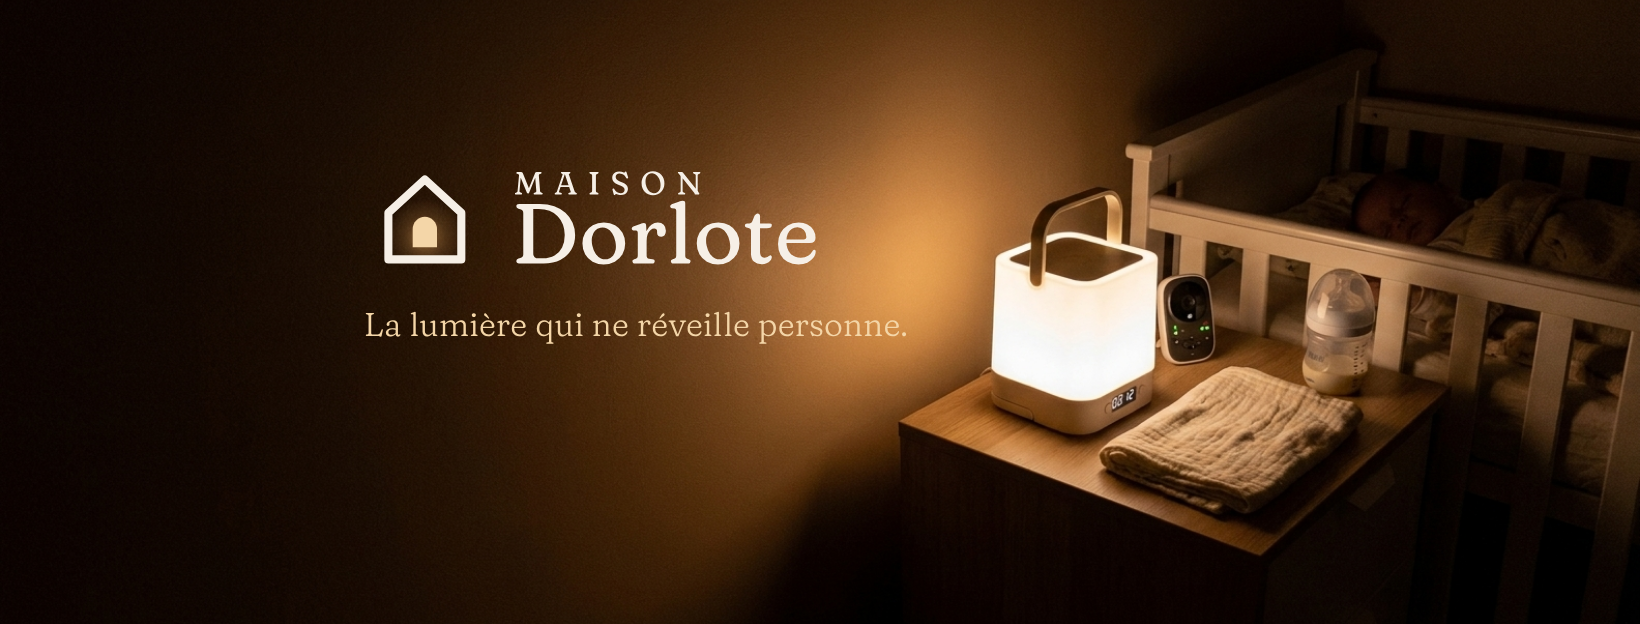
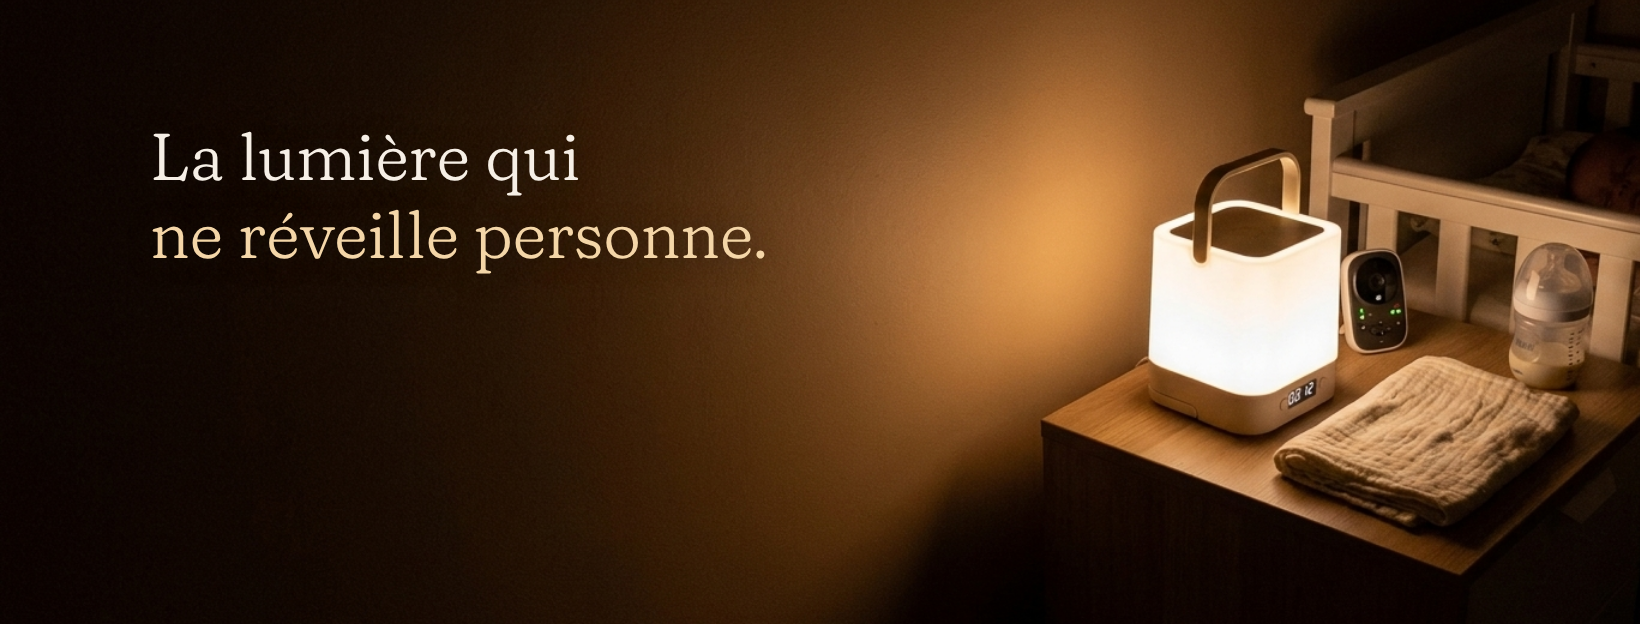
Couverture Facebook v2 : slogan seul, lampe dégagée de la photo de profil
Claude-Session: https://claude.ai/code/session_01Fj2qd2tYkwriq7vPtNENKj

diff --git a/docs/reseaux/couverture-facebook.html b/docs/reseaux/couverture-facebook.html
@@ -1,9 +1,7 @@
 <!doctype html><meta charset=utf-8><style>
 @font-face{font-family:F;src:url(file:///home/user/projet-shopify-/tools/fonts/fraunces-300.ttf)}
 html,body{margin:0}#b{position:relative;width:1640px;height:624px;overflow:hidden;background:#1E1A17}
-#b img.bg{position:absolute;left:0;top:50%;width:1640px;transform:translateY(-50%)}
-#b .txt{position:absolute;left:360px;top:150px;width:640px}
-#b .txt svg{width:470px;height:auto;display:block}
-#b p{margin:24px 0 0 4px;white-space:nowrap;font:300 33px/1.25 F;color:#F4D6A8;letter-spacing:.2px}
-#guide{display:none}
-</style><div id=b><img class=bg src="/tmp/claude-0/-home-user-projet-shopify-/13129036-406b-5b63-8be9-562902ebd529/scratchpad/fb/couv-a.png"><div class=txt><svg xmlns="http://www.w3.org/2000/svg" viewBox="0 0 232 64"><defs><clipPath id="ca"><path d="M16 54 V32 L32 17.4 L48 32 V54 Z"/></clipPath><radialGradient id="ra" cx="32" cy="43" r="19" gradientUnits="userSpaceOnUse"><stop offset="0" stop-color="#E8A55B" stop-opacity=".55"/><stop offset=".55" stop-color="#E8A55B" stop-opacity=".18"/><stop offset="1" stop-color="#E8A55B" stop-opacity="0"/></radialGradient></defs><rect x="0" y="0" width="64" height="64" fill="url(#ra)" clip-path="url(#ca)"/><path d="M14 54 V31 L32 14.5 L50 31 V54 Z" fill="none" stroke="#F6EFE6" stroke-width="4" stroke-linejoin="round"/><path d="M26 48 V39 a6 6 0 0 1 12 0 V48 Z" fill="#F4D6A8"/><path d="M26 48 V39 a6 6 0 0 1 12 0 V48 Z" fill="#E8A55B" transform="translate(32 48) scale(.78) translate(-32 -48)" opacity=".0"/><path transform="translate(76 22) scale(0.16)" fill="#F6EFE6" d="M48.35 -14.200000000000001 43.35 -13.25 64.65 -65.35000000000001Q65.7 -67.95 66.975 -68.975Q68.25 -70.0 70.60000000000001 -70.0H81.55000000000001Q83.25 -70.0 84.075 -69.275Q84.9 -68.55 84.9 -67.25Q84.9 -66.05 84.22500000000001 -65.35Q83.55000000000001 -64.65 82.45 -64.2L80.25 -63.6Q78.25 -63.0 77.45 -61.825Q76.65 -60.650000000000006 76.9 -57.550000000000004L80.55000000000001 -10.850000000000001Q80.75 -8.75 81.55000000000001 -7.825Q82.35000000000001 -6.9 84.0 -6.4L86.2 -5.800000000000001Q87.30000000000001 -5.4 87.9 -4.7Q88.5 -4.0 88.5 -2.9000000000000004Q88.5 -1.55 87.7 -0.775Q86.9 0.0 85.2 0.0H64.10000000000001Q62.400000000000006 0.0 61.575 -0.7250000000000001Q60.75 -1.4500000000000002 60.75 -2.75Q60.75 -3.85 61.375 -4.575Q62.0 -5.300000000000001 63.2 -5.800000000000001L65.4 -6.4Q67.15 -6.95 68.1 -7.9Q69.05 -8.85 68.9 -10.850000000000001L64.85000000000001 -60.35L69.0 -60.45L47.35 -7.45Q46.400000000000006 -5.0 45.550000000000004 -4.225Q44.7 -3.45 43.400000000000006 -3.45Q42.45 -3.45 41.7 -3.75Q40.95 -4.05 40.300000000000004 -4.95Q39.650000000000006 -5.8500000000000005 38.95 -7.65L17.35 -60.300000000000004L21.6 -61.25L17.1 -11.100000000000001Q16.900000000000002 -8.85 17.775000000000002 -7.85Q18.650000000000002 -6.8500000000000005 20.6 -6.25L22.8 -5.5Q23.700000000000003 -5.15 24.25 -4.525Q24.8 -3.9000000000000004 24.8 -2.85Q24.8 -1.5 24.0 -0.75Q23.200000000000003 0.0 21.5 0.0H6.300000000000001Q4.65 0.0 3.825 -0.7250000000000001Q3.0 -1.4500000000000002 3.0 -2.75Q3.0 -4.05 3.7 -4.725Q4.4 -5.4 5.65 -5.9L7.65 -6.4Q9.35 -6.9 10.15 -7.925000000000001Q10.950000000000001 -8.950000000000001 11.15 -11.100000000000001L15.5 -59.150000000000006Q15.65 -61.0 14.75 -62.05Q13.850000000000001 -63.1 12.0 -63.6L9.8 -64.2Q8.65 -64.65 8.0 -65.35Q7.3500000000000005 -66.05 7.3500000000000005 -67.25Q7.3500000000000005 -70.0 10.65 -70.0H21.5Q23.900000000000002 -70.0 25.175000000000004 -68.9Q26.450000000000003 -67.8 27.400000000000002 -65.4Z M141.5 -29.0H172.4L172.75 -23.05H140.95000000000002ZM147.60000000000002 -2.75Q147.60000000000002 -1.4500000000000002 146.77500000000003 -0.7250000000000001Q145.95000000000002 0.0 144.25 0.0H129.05Q127.35000000000001 0.0 126.525 -0.7250000000000001Q125.70000000000002 -1.4500000000000002 125.70000000000002 -2.75Q125.70000000000002 -3.75 126.275 -4.375Q126.85000000000001 -5.0 128.0 -5.6000000000000005L129.85000000000002 -6.2Q131.10000000000002 -6.65 131.675 -7.575Q132.25 -8.5 133.10000000000002 -11.100000000000001L149.70000000000002 -60.400000000000006Q150.3 -62.25 150.025 -63.0Q149.75 -63.75 148.05 -64.3Q146.55 -64.8 145.8 -65.475Q145.05 -66.15 145.05 -67.25Q145.05 -68.55 145.875 -69.275Q146.70000000000002 -70.0 148.4 -70.0H170.60000000000002Q172.3 -70.0 173.125 -69.25Q173.95000000000002 -68.5 173.95000000000002 -67.25Q173.95000000000002 -66.10000000000001 173.175 -65.42500000000001Q172.4 -64.75 170.85000000000002 -64.2Q169.65 -63.85 169.4 -63.125Q169.15 -62.400000000000006 169.65 -60.85L186.45000000000002 -11.600000000000001Q187.3 -9.0 188.25 -7.775Q189.20000000000002 -6.550000000000001 191.0 -5.95Q192.70000000000002 -5.300000000000001 193.3 -4.575Q193.90000000000003 -3.85 193.90000000000003 -2.75Q193.90000000000003 -1.4500000000000002 193.10000000000002 -0.7250000000000001Q192.3 0.0 190.60000000000002 0.0H171.05Q169.4 0.0 168.575 -0.7250000000000001Q167.75 -1.4500000000000002 167.75 -2.75Q167.75 -3.85 168.375 -4.55Q169.0 -5.25 170.20000000000002 -5.6000000000000005L173.9 -6.25Q175.15 -6.6000000000000005 175.125 -7.6Q175.10000000000002 -8.6 174.4 -10.8L156.35000000000002 -64.8L157.60000000000002 -64.9L139.8 -12.05Q139.25 -10.25 139.025 -9.175Q138.8 -8.1 139.3 -7.425Q139.8 -6.75 141.4 -6.2L145.10000000000002 -5.550000000000001Q146.25 -5.2 146.925 -4.525Q147.60000000000002 -3.85 147.60000000000002 -2.75Z M252.8 -10.8Q252.8 -8.85 253.75 -7.875Q254.70000000000002 -6.9 256.3 -6.4L258.5 -5.800000000000001Q260.95 -4.8500000000000005 260.95 -2.75Q260.95 -1.4500000000000002 260.125 -0.7250000000000001Q259.3 0.0 257.65000000000003 0.0H236.20000000000002Q234.55 0.0 233.72500000000002 -0.7250000000000001Q232.9 -1.4500000000000002 232.9 -2.75Q232.9 -4.8500000000000005 235.35000000000002 -5.800000000000001L237.55 -6.4Q239.20000000000002 -6.9 240.125 -7.875Q241.05 -8.85 241.05 -10.8V-59.2Q241.05 -61.150000000000006 240.125 -62.150000000000006Q239.20000000000002 -63.150000000000006 237.55 -63.6L235.35000000000002 -64.2Q232.9 -65.15 232.9 -67.25Q232.9 -68.55 233.72500000000002 -69.275Q234.55 -70.0 236.20000000000002 -70.0H257.65000000000003Q259.3 -70.0 260.125 -69.275Q260.95 -68.55 260.95 -67.25Q260.95 -65.15 258.5 -64.2L256.3 -63.6Q254.70000000000002 -63.150000000000006 253.75 -62.150000000000006Q252.8 -61.150000000000006 252.8 -59.2Z M329.95 1.6Q325.85 1.6 322.8 0.7250000000000001Q319.75 -0.15000000000000002 317.8 -1.0250000000000001Q315.85 -1.9000000000000001 315.05 -1.9000000000000001Q314.2 -1.9000000000000001 313.7 -1.375Q313.2 -0.8500000000000001 312.775 -0.15000000000000002Q312.35 0.55 311.85 1.0750000000000002Q311.35 1.6 310.55 1.6Q309.25 1.6 308.57500000000005 0.875Q307.90000000000003 0.15000000000000002 307.5 -1.5L304.0 -15.100000000000001Q303.7 -16.400000000000002 304.2 -17.3Q304.7 -18.2 305.90000000000003 -18.5Q307.05 -18.8 308.025 -18.325000000000003Q309.0 -17.85 309.90000000000003 -16.35Q312.2 -12.350000000000001 315.3 -9.675Q318.40000000000003 -7.0 322.0 -5.675000000000001Q325.6 -4.3500000000000005 329.35 -4.3500000000000005Q335.0 -4.3500000000000005 338.1 -7.275Q341.20000000000005 -10.200000000000001 341.25 -14.4Q341.25 -17.25 340.025 -19.6Q338.8 -21.950000000000003 335.475 -24.1Q332.15000000000003 -26.25 325.95 -28.450000000000003Q317.40000000000003 -31.200000000000003 312.425 -34.725Q307.45 -38.25 305.275 -42.55Q303.1 -46.85 303.1 -51.85Q303.1 -57.650000000000006 305.8 -62.025000000000006Q308.5 -66.4 313.35 -68.875Q318.2 -71.35000000000001 324.6 -71.35000000000001Q328.90000000000003 -71.35000000000001 331.90000000000003 -70.42500000000001Q334.90000000000003 -69.5 336.90000000000003 -68.575Q338.90000000000003 -67.65 340.05 -67.65Q341.05 -67.65 341.525 -68.575Q342.0 -69.5 342.57500000000005 -70.42500000000001Q343.15000000000003 -71.35000000000001 344.3 -71.35000000000001Q345.6 -71.35000000000001 346.35 -70.525Q347.1 -69.7 347.75 -67.60000000000001L352.1 -53.45Q352.6 -51.900000000000006 352.02500000000003 -50.85000000000001Q351.45000000000005 -49.800000000000004 350.15000000000003 -49.400000000000006Q349.0 -49.1 348.05 -49.625Q347.1 -50.150000000000006 346.40000000000003 -51.45Q343.70000000000005 -56.25 340.35 -59.3Q337.0 -62.35 333.225 -63.825Q329.45 -65.3 325.55 -65.3Q320.2 -65.3 317.025 -62.2Q313.85 -59.1 313.85 -54.6Q313.85 -51.45 315.275 -48.85Q316.7 -46.25 319.95 -44.05Q323.2 -41.85 328.65000000000003 -39.85Q337.5 -36.85 342.5 -33.400000000000006Q347.5 -29.950000000000003 349.57500000000005 -25.875Q351.65000000000003 -21.8 351.6 -16.85Q351.6 -11.850000000000001 349.07500000000005 -7.65Q346.55 -3.45 341.725 -0.925Q336.90000000000003 1.6 329.95 1.6Z M428.75000000000006 -71.65Q436.70000000000005 -71.65 443.20000000000005 -68.9Q449.70000000000005 -66.15 454.40000000000003 -61.2Q459.1 -56.25 461.65000000000003 -49.525000000000006Q464.20000000000005 -42.800000000000004 464.20000000000005 -34.800000000000004Q464.20000000000005 -26.75 461.67500000000007 -20.05Q459.15000000000003 -13.350000000000001 454.475 -8.450000000000001Q449.80000000000007 -3.5500000000000003 443.30000000000007 -0.8750000000000001Q436.80000000000007 1.8 428.90000000000003 1.8Q421.00000000000006 1.8 414.5250000000001 -0.9250000000000002Q408.05000000000007 -3.6500000000000004 403.4000000000001 -8.65Q398.75000000000006 -13.65 396.225 -20.5Q393.70000000000005 -27.35 393.70000000000005 -35.5Q393.70000000000005 -43.25 396.17500000000007 -49.825Q398.65000000000003 -56.400000000000006 403.27500000000003 -61.300000000000004Q407.90000000000003 -66.2 414.35 -68.92500000000001Q420.80000000000007 -71.65 428.75000000000006 -71.65ZM452.20000000000005 -28.5Q452.20000000000005 -34.6 450.90000000000003 -40.150000000000006Q449.6 -45.7 447.20000000000005 -50.325Q444.80000000000007 -54.95 441.5250000000001 -58.325Q438.25000000000006 -61.7 434.30000000000007 -63.6Q430.35 -65.5 425.95000000000005 -65.5Q419.85 -65.5 415.35 -62.5Q410.85 -59.5 408.35 -54.075Q405.85 -48.650000000000006 405.85 -41.400000000000006Q405.85 -35.15 407.17500000000007 -29.55Q408.50000000000006 -23.950000000000003 410.92500000000007 -19.325000000000003Q413.35 -14.700000000000001 416.6 -11.3Q419.85 -7.9 423.75 -6.050000000000001Q427.65000000000003 -4.2 431.95000000000005 -4.2Q437.95000000000005 -4.2 442.52500000000003 -7.15Q447.1 -10.100000000000001 449.65000000000003 -15.55Q452.20000000000005 -21.0 452.20000000000005 -28.5Z M528.6 -2.75Q528.6 -1.4500000000000002 527.8 -0.7250000000000001Q527.0 0.0 525.3000000000001 0.0H509.45000000000005Q507.80000000000007 0.0 506.975 -0.7250000000000001Q506.15000000000003 -1.4500000000000002 506.15000000000003 -2.75Q506.15000000000003 -4.800000000000001 508.80000000000007 -5.9L510.80000000000007 -6.4Q512.5500000000001 -6.95 513.4250000000001 -7.950000000000001Q514.3000000000001 -8.950000000000001 514.3000000000001 -10.950000000000001V-54.1Q514.3000000000001 -56.25 513.6500000000001 -57.525000000000006Q513.0 -58.800000000000004 511.80000000000007 -60.1L507.70000000000005 -64.8Q506.85 -65.75 506.375 -66.4Q505.90000000000003 -67.05 505.90000000000003 -67.9Q505.90000000000003 -68.85000000000001 506.6 -69.42500000000001Q507.30000000000007 -70.0 508.6 -70.0H516.3000000000001Q517.8000000000001 -70.0 518.825 -69.625Q519.85 -69.25 521.0 -67.8L562.9000000000001 -15.25L560.8000000000001 -10.15V-59.050000000000004Q560.8000000000001 -61.050000000000004 559.9000000000001 -62.050000000000004Q559.0 -63.050000000000004 557.2 -63.6L555.2 -64.10000000000001Q552.5500000000001 -65.2 552.5500000000001 -67.25Q552.5500000000001 -68.55 553.375 -69.275Q554.2 -70.0 555.85 -70.0H571.7Q573.4000000000001 -70.0 574.2 -69.275Q575.0 -68.55 575.0 -67.25Q575.0 -65.2 572.35 -64.10000000000001L570.35 -63.6Q568.6 -63.050000000000004 567.725 -62.075Q566.85 -61.1 566.85 -59.050000000000004V-13.5Q566.85 -11.950000000000001 567.25 -10.775000000000002Q567.6500000000001 -9.600000000000001 568.35 -8.55L570.45 -5.65Q571.2 -4.55 571.5250000000001 -3.9Q571.85 -3.25 571.85 -2.5Q571.85 -1.4000000000000001 571.1 -0.7000000000000001Q570.35 0.0 569.0 0.0H559.7Q557.25 0.0 557.25 -2.25Q557.25 -3.5 556.7 -4.475Q556.1500000000001 -5.45 554.7 -7.3500000000000005L517.2 -54.400000000000006L520.35 -57.6V-10.950000000000001Q520.35 -8.9 521.25 -7.95Q522.1500000000001 -7.0 523.95 -6.4L525.95 -5.9Q528.6 -4.800000000000001 528.6 -2.75Z"/><path transform="translate(75 56) scale(0.42)" fill="#F6EFE6" d="M5.15 -2.75Q5.15 -4.8500000000000005 7.6000000000000005 -5.800000000000001L9.8 -6.4Q11.450000000000001 -6.9 12.375 -7.875Q13.3 -8.85 13.3 -10.8V-59.2Q13.3 -61.150000000000006 12.375 -62.150000000000006Q11.450000000000001 -63.150000000000006 9.8 -63.6L7.6000000000000005 -64.2Q5.15 -65.15 5.15 -67.25Q5.15 -68.55 5.9750000000000005 -69.275Q6.800000000000001 -70.0 8.450000000000001 -70.0H32.7Q42.1 -70.0 49.725 -67.275Q57.35 -64.55 62.85000000000001 -59.575Q68.35000000000001 -54.6 71.30000000000001 -47.900000000000006Q74.25 -41.2 74.25 -33.2Q74.25 -23.75 69.92500000000001 -16.25Q65.60000000000001 -8.75 57.275000000000006 -4.375Q48.95 0.0 36.95 0.0H8.450000000000001Q6.800000000000001 0.0 5.9750000000000005 -0.7250000000000001Q5.15 -1.4500000000000002 5.15 -2.75ZM36.2 -5.95Q44.35 -5.95 50.1 -9.275Q55.85 -12.600000000000001 58.95 -18.8Q62.050000000000004 -25.0 62.050000000000004 -33.550000000000004Q62.050000000000004 -40.25 59.875 -45.85Q57.7 -51.45 53.7 -55.525000000000006Q49.7 -59.6 44.075 -61.825Q38.45 -64.05 31.55 -64.05H25.05V-11.75Q25.05 -8.75 26.65 -7.35Q28.25 -5.95 31.55 -5.95Z M108.15 -48.0Q115.55000000000001 -48.0 121.17500000000001 -44.85Q126.80000000000001 -41.7 129.95000000000002 -36.150000000000006Q133.10000000000002 -30.6 133.10000000000002 -23.400000000000002Q133.10000000000002 -16.35 129.875 -10.775Q126.65 -5.2 120.95 -2.0Q115.25 1.2000000000000002 107.75 1.2000000000000002Q100.4 1.2000000000000002 94.775 -1.975Q89.15 -5.15 86.0 -10.75Q82.85000000000001 -16.35 82.85000000000001 -23.650000000000002Q82.85000000000001 -30.6 86.07500000000002 -36.125Q89.30000000000001 -41.650000000000006 95.0 -44.825Q100.7 -48.0 108.15 -48.0ZM112.15 -5.050000000000001Q116.0 -5.800000000000001 118.5 -8.65Q121.0 -11.5 121.85 -15.950000000000001Q122.7 -20.400000000000002 121.55000000000001 -25.85Q120.35000000000001 -31.700000000000003 117.75 -35.525000000000006Q115.15 -39.35 111.625 -41.0Q108.10000000000001 -42.650000000000006 104.05000000000001 -41.85Q100.2 -41.150000000000006 97.625 -38.325Q95.05000000000001 -35.5 94.17500000000001 -31.075000000000003Q93.30000000000001 -26.650000000000002 94.45 -21.1Q95.7 -15.200000000000001 98.35 -11.375Q101.0 -7.550000000000001 104.6 -5.925000000000001Q108.2 -4.3 112.15 -5.050000000000001Z M156.05 -26.400000000000002Q156.05 -33.35 158.2 -38.2Q160.35 -43.050000000000004 163.875 -45.575Q167.4 -48.1 171.5 -48.1Q175.85 -48.1 178.39999999999998 -45.475Q180.95 -42.85 180.95 -38.300000000000004Q180.95 -34.9 179.475 -33.15Q178.0 -31.400000000000002 175.6 -31.400000000000002Q173.2 -31.400000000000002 171.89999999999998 -32.675000000000004Q170.6 -33.95 170.6 -36.15V-37.800000000000004Q170.6 -39.550000000000004 169.675 -40.275000000000006Q168.75 -41.0 167.25 -41.0Q165.05 -41.0 162.97500000000002 -39.35Q160.9 -37.7 159.60000000000002 -34.475Q158.3 -31.25 158.3 -26.5ZM157.75 -44.400000000000006 158.3 -33.25V-9.35Q158.3 -7.65 159.0 -6.7Q159.7 -5.75 161.15 -5.550000000000001L165.25 -5.050000000000001Q166.55 -4.9 167.175 -4.2Q167.8 -3.5 167.8 -2.45Q167.8 -1.3 167.025 -0.65Q166.25 0.0 164.9 0.0H144.5Q143.2 0.0 142.39999999999998 -0.65Q141.6 -1.3 141.6 -2.45Q141.6 -3.4000000000000004 142.175 -4.0Q142.75 -4.6000000000000005 143.75 -5.050000000000001L145.6 -5.550000000000001Q146.7 -5.9 147.3 -6.7250000000000005Q147.9 -7.550000000000001 147.9 -9.35V-35.4Q147.9 -37.050000000000004 147.375 -37.72500000000001Q146.85 -38.400000000000006 145.85 -38.6L142.75 -38.800000000000004Q141.85 -39.050000000000004 141.325 -39.60000000000001Q140.8 -40.150000000000006 140.8 -41.0Q140.8 -41.95 141.425 -42.625Q142.05 -43.300000000000004 143.35 -43.75L150.9 -46.35Q152.2 -46.85 153.3 -47.25Q154.4 -47.650000000000006 155.15 -47.650000000000006Q156.3 -47.650000000000006 156.95 -46.925000000000004Q157.6 -46.2 157.75 -44.400000000000006Z M203.7 -70.75V-9.35Q203.7 -7.550000000000001 204.29999999999998 -6.7250000000000005Q204.89999999999998 -5.9 206.0 -5.550000000000001L207.75 -5.050000000000001Q208.79999999999998 -4.6000000000000005 209.34999999999997 -4.0Q209.89999999999998 -3.4000000000000004 209.89999999999998 -2.45Q209.89999999999998 -1.3 209.14999999999998 -0.65Q208.39999999999998 0.0 207.0 0.0H189.7Q188.39999999999998 0.0 187.59999999999997 -0.65Q186.79999999999998 -1.3 186.79999999999998 -2.45Q186.79999999999998 -3.4000000000000004 187.375 -4.0Q187.95 -4.6000000000000005 188.95 -5.050000000000001L190.79999999999998 -5.550000000000001Q191.89999999999998 -5.9 192.5 -6.7250000000000005Q193.1 -7.550000000000001 193.1 -9.35V-61.5Q193.1 -63.150000000000006 192.575 -63.825Q192.04999999999998 -64.5 191.04999999999998 -64.7L187.95 -64.9Q187.04999999999998 -65.15 186.52499999999998 -65.7Q186.0 -66.25 186.0 -67.10000000000001Q186.0 -68.05 186.625 -68.725Q187.25 -69.4 188.54999999999998 -69.85000000000001L196.1 -72.45Q197.54999999999998 -73.0 198.72499999999997 -73.375Q199.89999999999998 -73.75 200.89999999999998 -73.75Q202.2 -73.75 202.95 -72.95Q203.7 -72.15 203.7 -70.75Z M242.5 -48.0Q249.89999999999998 -48.0 255.52499999999998 -44.85Q261.15 -41.7 264.29999999999995 -36.150000000000006Q267.45 -30.6 267.45 -23.400000000000002Q267.45 -16.35 264.225 -10.775Q261.0 -5.2 255.3 -2.0Q249.6 1.2000000000000002 242.1 1.2000000000000002Q234.75 1.2000000000000002 229.125 -1.975Q223.49999999999997 -5.15 220.34999999999997 -10.75Q217.2 -16.35 217.2 -23.650000000000002Q217.2 -30.6 220.42499999999998 -36.125Q223.64999999999998 -41.650000000000006 229.34999999999997 -44.825Q235.04999999999998 -48.0 242.5 -48.0ZM246.5 -5.050000000000001Q250.35 -5.800000000000001 252.85 -8.65Q255.35 -11.5 256.2 -15.950000000000001Q257.04999999999995 -20.400000000000002 255.89999999999998 -25.85Q254.7 -31.700000000000003 252.1 -35.525000000000006Q249.5 -39.35 245.975 -41.0Q242.45 -42.650000000000006 238.39999999999998 -41.85Q234.54999999999998 -41.150000000000006 231.97499999999997 -38.325Q229.39999999999998 -35.5 228.52499999999998 -31.075000000000003Q227.64999999999998 -26.650000000000002 228.79999999999998 -21.1Q230.04999999999998 -15.200000000000001 232.7 -11.375Q235.35 -7.550000000000001 238.95 -5.925000000000001Q242.54999999999998 -4.3 246.5 -5.050000000000001Z M278.09999999999997 -41.75 275.7 -42.150000000000006Q274.84999999999997 -42.5 274.32499999999993 -43.125Q273.79999999999995 -43.75 273.79999999999995 -44.7Q273.79999999999995 -45.7 274.525 -46.375Q275.24999999999994 -47.050000000000004 276.49999999999994 -47.050000000000004H278.79999999999995Q280.15 -47.050000000000004 281.07499999999993 -47.7Q281.99999999999994 -48.35 282.65 -49.900000000000006L285.09999999999997 -55.95Q285.74999999999994 -57.150000000000006 286.79999999999995 -57.925000000000004Q287.84999999999997 -58.7 288.79999999999995 -58.7Q290.04999999999995 -58.7 290.82499999999993 -57.925000000000004Q291.59999999999997 -57.150000000000006 291.59999999999997 -55.75V-13.200000000000001Q291.59999999999997 -10.15 293.025 -8.475000000000001Q294.45 -6.800000000000001 296.99999999999994 -6.800000000000001Q298.34999999999997 -6.800000000000001 299.375 -7.2250000000000005Q300.4 -7.65 301.17499999999995 -8.2Q301.95 -8.75 302.59999999999997 -9.15Q303.24999999999994 -9.55 303.79999999999995 -9.5Q304.54999999999995 -9.5 305.04999999999995 -8.875Q305.54999999999995 -8.25 305.4 -7.1000000000000005Q305.24999999999994 -5.1000000000000005 303.59999999999997 -3.2500000000000004Q301.95 -1.4000000000000001 299.25 -0.275Q296.54999999999995 0.8500000000000001 293.4 0.8500000000000001Q287.7 0.8500000000000001 284.34999999999997 -2.1500000000000004Q280.99999999999994 -5.15 280.99999999999994 -11.200000000000001V-37.800000000000004Q280.99999999999994 -39.6 280.275 -40.5Q279.54999999999995 -41.400000000000006 278.09999999999997 -41.75ZM286.59999999999997 -41.400000000000006V-47.050000000000004H302.7Q304.04999999999995 -47.050000000000004 304.75 -46.5Q305.45 -45.95 305.45 -44.85Q305.45 -43.35 304.125 -42.375Q302.79999999999995 -41.400000000000006 299.79999999999995 -41.400000000000006Z M356.84999999999997 -30.1Q356.84999999999997 -27.05 355.125 -25.5Q353.4 -23.950000000000003 350.09999999999997 -23.950000000000003H318.84999999999997V-28.200000000000003H342.9Q346.04999999999995 -28.200000000000003 346.04999999999995 -31.05Q346.04999999999995 -36.15 343.125 -39.275000000000006Q340.2 -42.400000000000006 335.54999999999995 -42.400000000000006Q331.74999999999994 -42.400000000000006 328.79999999999995 -40.400000000000006Q325.84999999999997 -38.400000000000006 324.19999999999993 -34.75Q322.54999999999995 -31.1 322.54999999999995 -26.05Q322.54999999999995 -16.7 327.25 -11.725Q331.95 -6.75 339.45 -6.75Q344.59999999999997 -6.75 348.09999999999997 -9.075Q351.59999999999997 -11.4 353.2 -14.450000000000001Q353.9 -15.25 354.375 -15.65Q354.84999999999997 -16.05 355.45 -16.0Q356.15 -15.950000000000001 356.59999999999997 -15.425Q357.04999999999995 -14.9 357.04999999999995 -13.850000000000001Q356.9 -10.0 354.29999999999995 -6.55Q351.7 -3.1 347.2 -0.95Q342.7 1.2000000000000002 336.7 1.2000000000000002Q329.29999999999995 1.2000000000000002 323.92499999999995 -1.85Q318.54999999999995 -4.9 315.65 -10.350000000000001Q312.74999999999994 -15.8 312.74999999999994 -22.900000000000002Q312.74999999999994 -30.05 315.72499999999997 -35.725Q318.7 -41.400000000000006 324.125 -44.7Q329.54999999999995 -48.0 336.95 -48.0Q342.84999999999997 -48.0 347.34999999999997 -45.675Q351.84999999999997 -43.35 354.34999999999997 -39.325Q356.84999999999997 -35.300000000000004 356.84999999999997 -30.1Z"/></svg><p>La lumière qui ne réveille personne.</p></div></div>
+#b img.bg{position:absolute;left:0;top:-110px;width:1900px}
+#b p{position:absolute;left:150px;top:118px;margin:0;font:300 66px/1.18 F;color:#F6EFE6;letter-spacing:-.3px;text-shadow:0 2px 24px rgba(30,26,23,.6)}
+#b p em{font-style:normal;color:#F4D6A8}
+</style><div id=b><img class=bg src="/tmp/claude-0/-home-user-projet-shopify-/13129036-406b-5b63-8be9-562902ebd529/scratchpad/fb/couv-a.png"><p>La lumière qui<br><em>ne réveille personne.</em></p></div>
